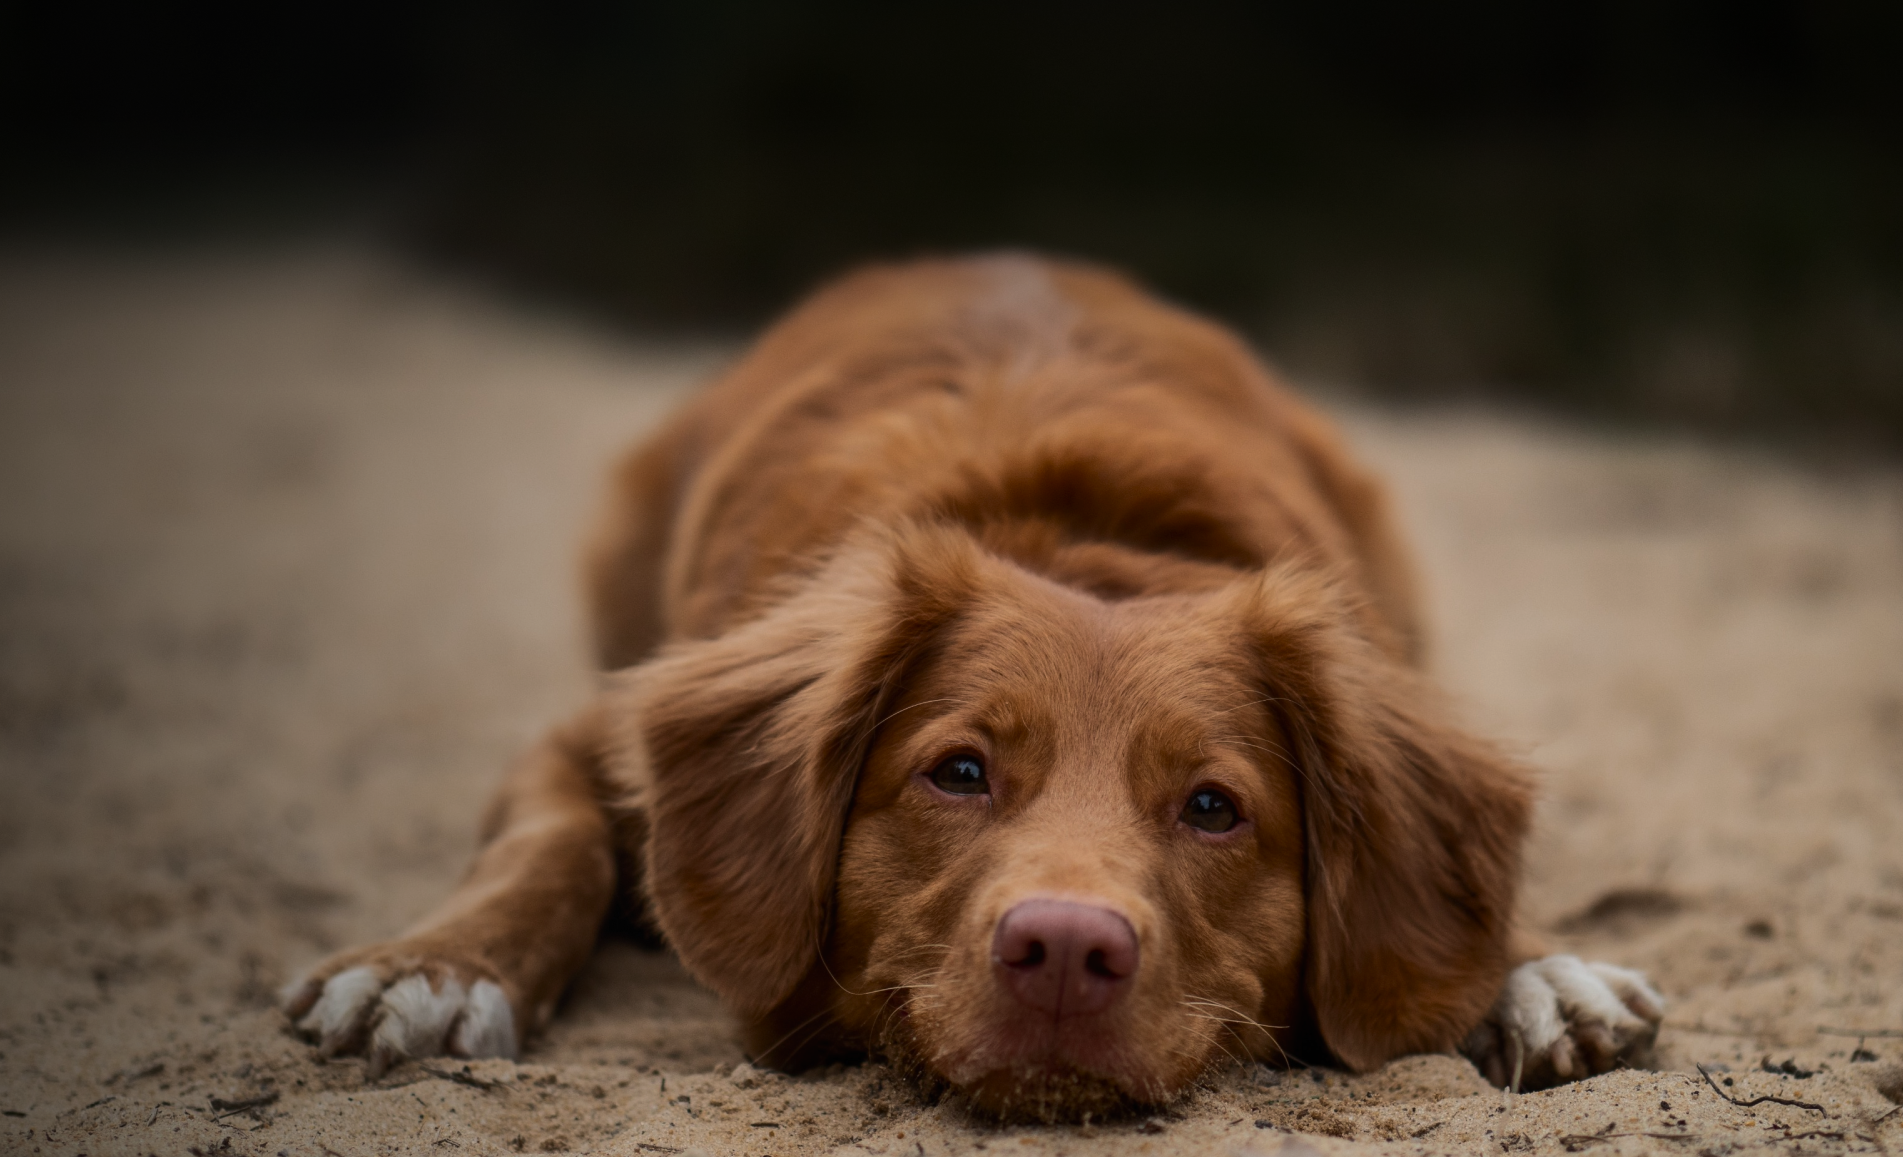
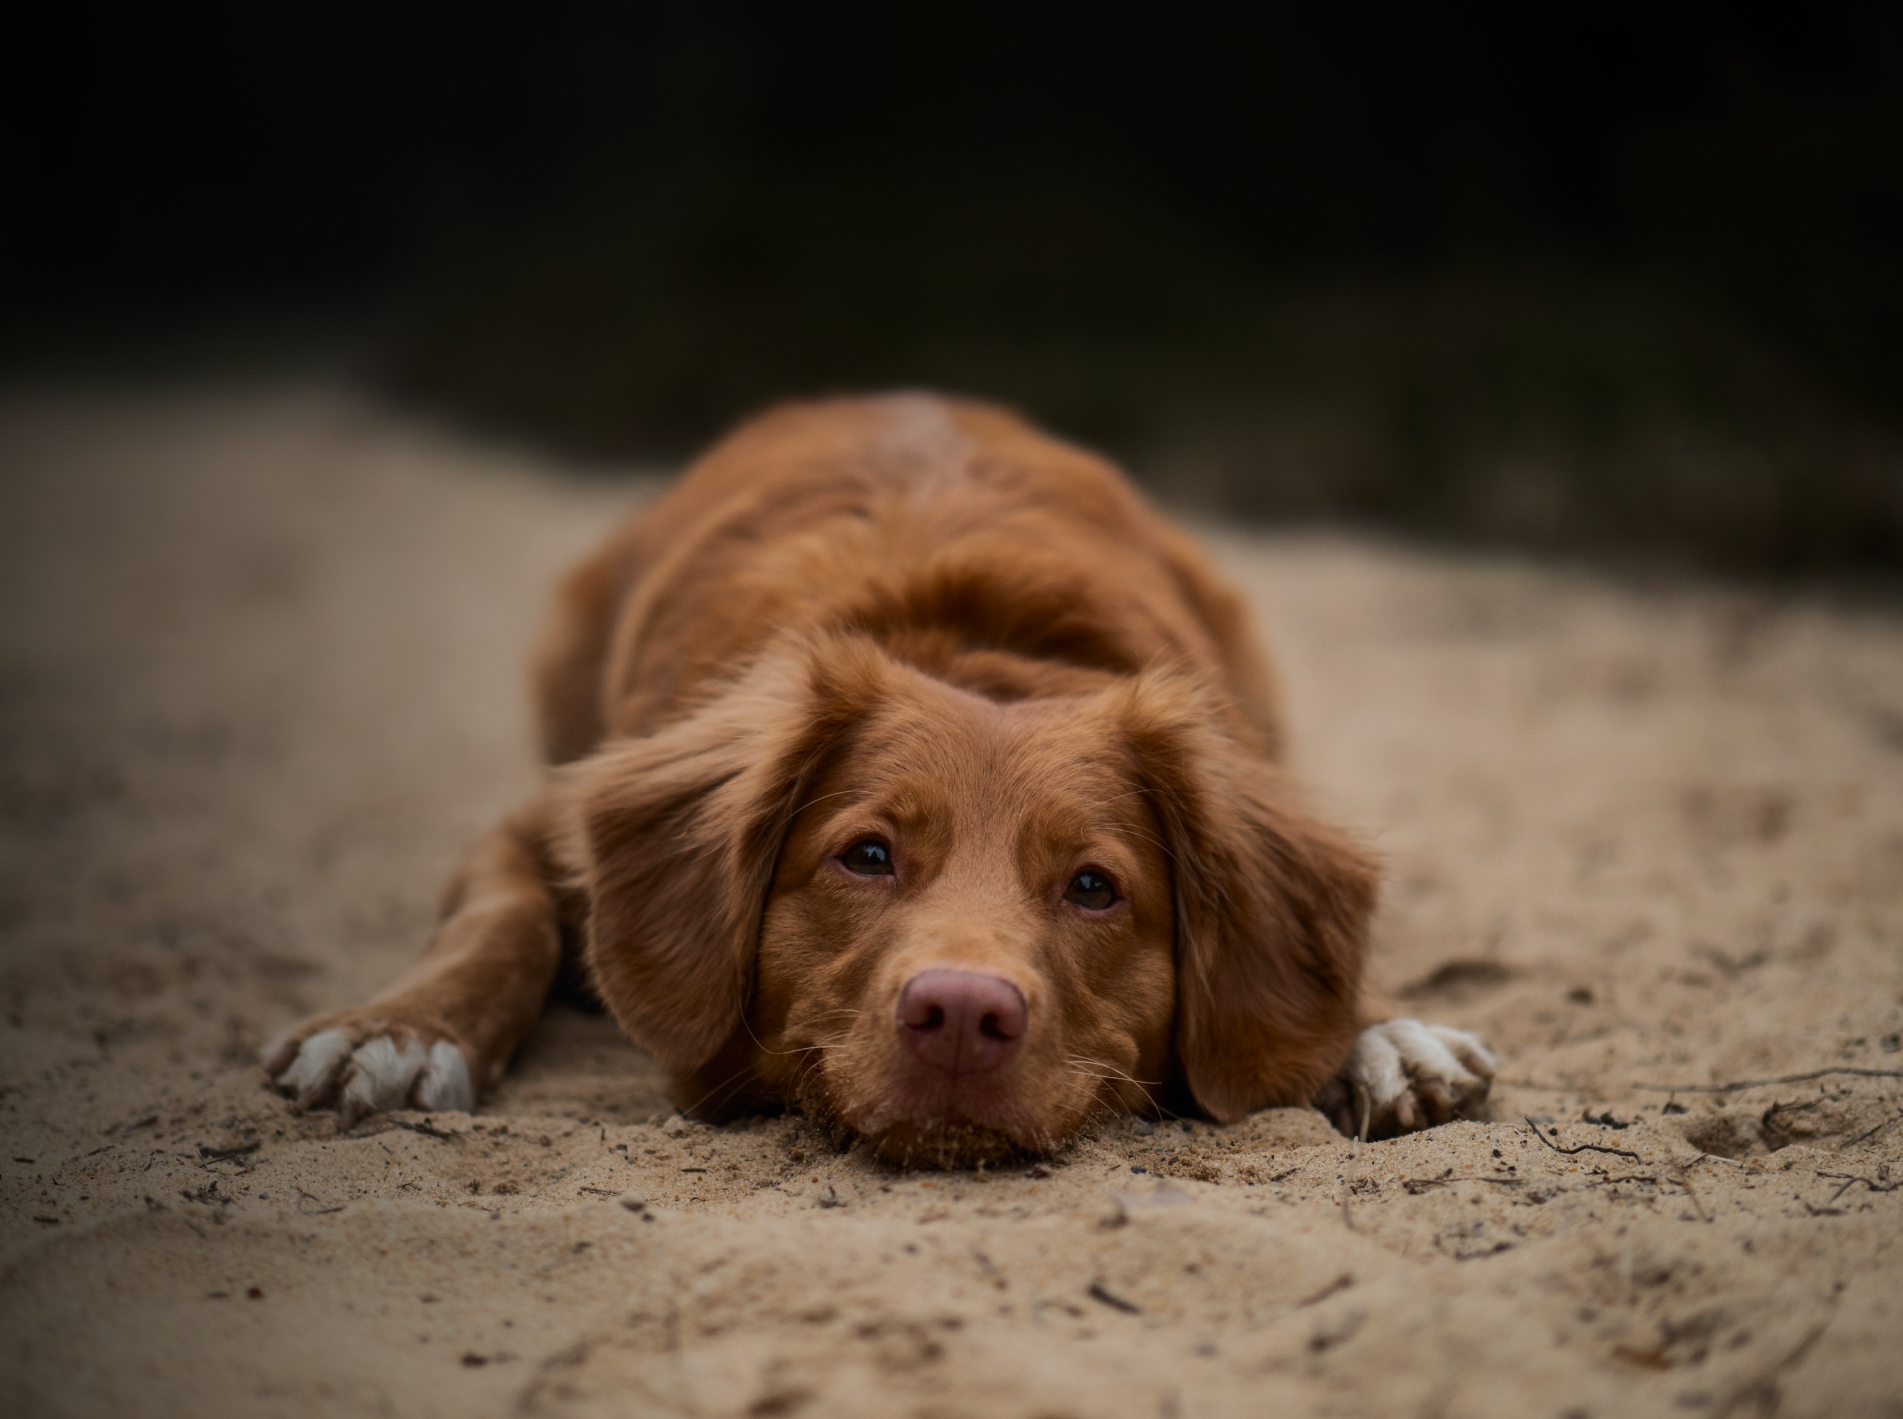
hero-homepage-redesign

diff --git a/src/Header/Header.tsx b/src/Header/Header.tsx
@@ -3,18 +3,20 @@ import HomeLink from './nav-links/HomeLink'
 import OurPetsLink from './nav-links/OurPetsLink'
 import ServicesLink from './nav-links/ServicesLink'
 import Contacts from './nav-links/Contacts'
+import AboutUs from './nav-links/AboutUs'
 
 
 export default function Header() {
     return(
-        <div>
-            <div className="mx-6 my-6 flex flex-row items-center justify-between
-            md:my-2 lg:mx-16">
-                <h3 className="text-3xl font-medium font-logo md:mx-auto text-mainOrange md:my-3 md:items-center">PetShelter</h3>
+        <header className='relative flex flex-col justify-center items-center mt-2'>
+        <div className='absolute w-full lg:z-10 mt-32'>
+            <div className="mx-10 my-6 flex flex-row items-center justify-between
+            md:my-2 lg:mx-16"> 
+                <h3 className="text-3xl z-10 font-medium font-logo md:mx-auto text-white md:my-3 lg:items-center">PetShelter</h3>
                     
                 <div className="menu">
                     <button type="button" id="menu-btn"
-                    className="z-40 block hamburger md:hidden focus:outline-none
+                    className="z-40 block hamburger lg:hidden focus:outline-none
                     ">
                         <span className="top-line"></span>
                         <span className="middle-line"></span>
@@ -22,24 +24,26 @@ export default function Header() {
                     </button>
                 </div>
 
-                <div className='hidden md:flex items-center justify-center relative'>
+                <div className='hidden lg:flex items-center justify-center float-right right-10 absolute'>
                         <ul className='right-52 absolute inline-flex items-center text-sm space-x-2 text-mainOrange font-medium '>
-                            <li><a className='hover:underline hover:underline-offset-4' href="./">EN</a></li>
-                            <span className='cursor-default'>/</span>
-                            <li><a className='text-[#DFB198] hover:underline hover:underline-offset-4' href="./">LT</a></li>
+                            <li><a className='hover:underline text-white hover:underline-offset-4' href="./">EN</a></li>
+                            <span className='cursor-default text-lighterGray'>/</span>
+                            <li><a className='text-lighterGray hover:underline hover:underline-offset-4' href="./">LT</a></li>
                         </ul>
-                    <button className='right-0 text-sm absolute basic-button text-[#447DD1] border hover:bg-[#447DD1] duration-300 hover:text-white'>Volunteer</button>
+                    <button className='right-0 text-sm absolute basic-button text-white  bg-orange hover:bg-mainOrange duration-300 hover:text-white'>Volunteer</button>
                 </div>
             </div>
 
-                <div className="bg-white/50">
+                <div>
                     <nav className='nav-links'> 
                         <HomeLink />
+                        <AboutUs />
                         <OurPetsLink />
                         <ServicesLink />
                         <Contacts />
                     </nav>
                 </div>
         </div>
+        </header>
     )
 } 

diff --git a/src/Home Page/Hero/Hero.tsx b/src/Home Page/Hero/Hero.tsx
@@ -2,24 +2,25 @@ import './Hero.css'
 
 export default function Hero () {
     return(
+        <section>
         <div className='flex flex-col items-center justify-center mx-auto'>
-            <div className="hero-img relative md:hidden"></div>
-            <div className='hidden md:block hero-desktop relative'></div>
+            <div className="hero-img absolute md:hidden"></div>
+            <div className='hidden md:flex hero-desktop relative'></div>
 
-            <div className='flex items-center justify-center'>
-                <div className="absolute bottom-40 text-center flex flex-col items-center xl:bottom-72">
-                    <h2 className='font-heading text-4xl md:text-5xl text-center w-96 bg-mainOrange rounded-full mb-2 text-white'>Our fluffy friends</h2>
-                    <h2 className='font-heading text-4xl md:text-5xl text-center w-80 md:w-90 bg-mainOrange rounded-full mb-2 text-white'> look for a loving</h2>
-                    <h2 className='font-heading text-4xl md:text-5xl text-center w-36 md:w-44 bg-mainOrange rounded-full mb-2 text-white'> home!</h2>
+            <div className='absolute z-10 flex mx-6 flex-col items-center justify-center lg:items-start lg:justify-start top-28'>
+                <div className=" text-center flex flex-col items-center justify-center lg:text-left lg:mt-12 lg:items-start lg:flex-row lg:justify-between lg:mx-20">
+                    <h1 className='text-white text-5xl lg:w-1/2 lg:text-6xl'>Our fluffy friends look for a loving home!</h1>
+                    <p className='text-white text-sm leading-6 w-80 lg:w-96 font-light font-text mt-10 lg:mt-0'>
+                    Your support makes a difference. Whether through adoption, volunteering, or donations, every contribution helps us continue our mission of providing care, love, and hope to animals in need.
+                    </p>
                 </div>   
 
-                <div className="button bottom-7 text-center flex mx-auto mt-6
-                md:absolute md:bottom-16 xl:bottom-40">
-                    <button className='text-xl items-center text-mainOrange border-2 font-semibold border-mainOrange uppercase w-80 rounded-full py-4 hover:bg-mainOrange
-                     ease-in-out duration-300 md:border-white md:text-white hover:text-mainOrange md:w-60 md:hover:bg-white md:text-sm md:py-3 md:px-2'>Adopt a Pet</button>
+                <div className="button text-center mx-auto lg:mx-20 mt-44 lg:mt-10">
+                    <button className='text-xl items-center text-white border font-medium border-white uppercase w-80 rounded-lg py-4 hover:bg-mainOrange
+                     ease-in-out duration-300 md:w-60 md:hover:bg-white md:hover:text-black md:text-sm md:py-3 md:px-2'>Adopt a Pet</button>
                 </div>
             </div>
-
         </div>
+        </section>
     )
 }

diff --git a/src/Header/nav-links/OurPetsLink.tsx b/src/Header/nav-links/OurPetsLink.tsx
@@ -6,21 +6,18 @@ export default function OurPetsLink() {
             <Link to='/our-pets' className='flex justify-center items-center gap-4 group-hover:text-mainOrange group-hover:stroke-mainOrange duration-200'>
                 Our Pets 
                 <svg id='arrow' width="14" height="8" viewBox="0 0 14 8" fill="none" xmlns="http://www.w3.org/2000/svg">
-                    <path className='group-hover:stroke-mainOrange duration-200' d="M13 1L7 7L1 1" stroke="#161616"/>
+                    <path className='group-hover:stroke-mainOrange stroke-white duration-200' d="M13 1L7 7L1 1" stroke="#161616"/>
                 </svg>
             </Link>
 
-            <div className='group-hover:flex absolute z-10 items-center justify-center mx-auto hidden bg-white rounded-b-lg ease-in-out h-36 w-52'>
+            <div className='group-hover:flex absolute z-10 items-center justify-center hidden bg-white rounded-b-lg ease-in-out h-32 w-36'>
                 <div>
-                    <ul className=' mx-4 mt-4 space-y-4'>
+                    <ul className='mx-4 space-y-4 text-gray'>
                         <li>
                             <Link to='/our-pets/cats' className='hover:text-mainOrange duration-200'>Our Cats</Link>
                         </li>
                         <li>
                             <Link to='/our-pets/dogs' className='hover:text-mainOrange duration-200' >Our Dogs</Link>
-                        </li>
-                        <li>
-                            <Link to='/our-pets/adoption-application' className='hover:text-mainOrange duration-200'>Adoption Application</Link>
                         </li>
                     </ul>
                 </div>

diff --git a/src/Header/nav-links/ServicesLink.tsx b/src/Header/nav-links/ServicesLink.tsx
@@ -6,13 +6,13 @@ export default function ServicesLink() {
             <a className='flex justify-center items-center gap-4 group-hover:text-mainOrange group-hover:stroke-mainOrange duration-200' href="./">
                 Services 
                 <svg id='arrow' width="14" height="8" viewBox="0 0 14 8" fill="none" xmlns="http://www.w3.org/2000/svg">
-                    <path className='group-hover:stroke-mainOrange duration-200' d="M13 1L7 7L1 1" stroke="#161616"/>
+                    <path className='group-hover:stroke-mainOrange stroke-white duration-200' d="M13 1L7 7L1 1" stroke="#161616"/>
                 </svg>
             </a>
 
-            <div className='group-hover:flex absolute z-10 items-center justify-center mx-auto hidden bg-white rounded-b-lg ease-in-out h-48 w-52'>
+            <div className='group-hover:flex absolute z-10 items-center justify-center mx-auto hidden bg-white rounded-b-lg ease-in-out h-48 w-44'>
                 <div>
-                    <ul className=' mx-4 mt-4 space-y-4'>
+                    <ul className=' mx-4 mt-4 space-y-4 text-gray'>
                         <li><Link to='/services/adoption' className='hover:text-mainOrange duration-200'>Adoption</Link></li>
                         <li><Link to='/services/volunteer-today' className='hover:text-mainOrange duration-200'>Volunteer Today</Link></li>
                         <li><Link to='/services/donate' className='hover:text-mainOrange duration-200'>Donate & Help</Link></li>

diff --git a/src/Home Page/Hero/Hero.scss b/src/Home Page/Hero/Hero.scss
@@ -1,26 +1,35 @@
 .hero-img{
-    background-image: url(../images/hero-1.png);
+    position: relative;
+    top: 0;
+    left: 0;
+    overflow: hidden;
+    background-image: url(../images/images-redesign/hero.png);
     background-size: cover;
-    width: 95%;
+    width: 96%;
     margin-left: auto;
     margin-right: auto;
-    height: 76vh;
+    height: 95vh;
+    filter: brightness(0.8);
+    z-index: 1;
     background-repeat: no-repeat;
-    background-position: 53%;
+    background-position: 50%;
     border-radius: 15px;
     -webkit-border-radius: 15px;
     -moz-border-radius: 15px;
     -ms-border-radius: 15px;
     -o-border-radius: 15px;
+    -webkit-filter: brightness(0.8);
 }
 
 .hero-desktop{
-    background-image: url(../images/hero-desktop.png);
+    background-image: url(../images/images-redesign/hero.png);
     background-size: cover;
-    width: 99%;
+    width: 98%;
+    filter: brightness(0.7);
     margin-left: auto;
     margin-right: auto;
-    height: 80vh;
+    height: 97vh;
+    margin-top: 0.5em;
     background-repeat: no-repeat;
     background-position: 53%;
     border-radius: 15px;
@@ -28,10 +37,11 @@
     -moz-border-radius: 15px;
     -ms-border-radius: 15px;
     -o-border-radius: 15px;
+    -webkit-filter: brightness(0.7);
 }
 
 @media screen and (min-width: 900px) {
     .hero-desktop{
-        max-width: 92vw;
+        max-width: 98vw;
     }
 }

diff --git a/src/Home Page/Hero/Hero.css b/src/Home Page/Hero/Hero.css
@@ -1,26 +1,35 @@
 .hero-img {
-  background-image: url(../images/hero-1.png);
+  position: relative;
+  top: 0;
+  left: 0;
+  overflow: hidden;
+  background-image: url(../images/images-redesign/hero.png);
   background-size: cover;
-  width: 95%;
+  width: 96%;
   margin-left: auto;
   margin-right: auto;
-  height: 76vh;
+  height: 95vh;
+  filter: brightness(0.8);
+  z-index: 1;
   background-repeat: no-repeat;
-  background-position: 53%;
+  background-position: 50%;
   border-radius: 15px;
   -webkit-border-radius: 15px;
   -moz-border-radius: 15px;
   -ms-border-radius: 15px;
   -o-border-radius: 15px;
+  -webkit-filter: brightness(0.8);
 }
 
 .hero-desktop {
-  background-image: url(../images/hero-desktop.png);
+  background-image: url(../images/images-redesign/hero.png);
   background-size: cover;
-  width: 99%;
+  width: 98%;
+  filter: brightness(0.7);
   margin-left: auto;
   margin-right: auto;
-  height: 80vh;
+  height: 97vh;
+  margin-top: 0.5em;
   background-repeat: no-repeat;
   background-position: 53%;
   border-radius: 15px;
@@ -28,10 +37,11 @@
   -moz-border-radius: 15px;
   -ms-border-radius: 15px;
   -o-border-radius: 15px;
+  -webkit-filter: brightness(0.7);
 }
 
 @media screen and (min-width: 900px) {
   .hero-desktop {
-    max-width: 92vw;
+    max-width: 98vw;
   }
 }/*# sourceMappingURL=Hero.css.map */

diff --git a/src/index.css b/src/index.css
@@ -15,7 +15,7 @@
     }
 
     .basic-button{
-        @apply  px-10 py-2 rounded-full font-medium uppercase tracking-wide; 
+        @apply  px-10 py-2 rounded-lg font-medium uppercase tracking-wide; 
     }
 
     .input {
@@ -23,9 +23,9 @@
     }
 
     .nav-links {
-        @apply hidden z-10 font-heading pt-6 text-2xl bg-white/50 pb-10 space-y-5 
+        @apply hidden z-10 font-heading pt-6 text-2xl bg-none lg:text-white pb-10 space-y-5 
         flex-col items-center justify-between mt-6 lg:flex lg:mt-2 lg:flex-row lg:text-base
-        lg:space-y-0 lg:pt-0 lg:pb-0 lg:mb-4 lg:justify-center lg:space-x-44 lg:items-center;
+        lg:space-y-0 lg:pt-0 lg:pb-0 lg:mb-4 lg:justify-center lg:space-x-24 lg:items-center;
     }
 
     .points{

diff --git a/src/Header/Header.scss b/src/Header/Header.scss
@@ -1,8 +1,8 @@
 /*Hamburger Menu*/
 .hamburger{
     cursor: pointer;
-    width: 24px;
-    height: 24px;
+    width: 40px;
+    height: 40px;
     transition: all 0.25s;
     -webkit-transition: all 0.25s;
     -moz-transition: all 0.25s;
@@ -15,11 +15,11 @@
 .middle-line,
 .bottom-line{
     position: absolute;
-    width: 24px;
+    width: 45px;
     height: 2px;
     top: 0;
     left: 0;
-    background: #D18332;
+    background: white;
     transform: rotate(0);
     -webkit-transform: rotate(0);
     -moz-transform: rotate(0);
@@ -30,10 +30,12 @@
 
 .middle-line{
     transform: translateY(7px);
+    margin-top: 7px;
 }
 
 .bottom-line{
     transform: translateY(14px); 
+    margin-top: 15px;
 } 
 
 .open{

diff --git a/src/Header/Header.css b/src/Header/Header.css
@@ -1,8 +1,8 @@
 /*Hamburger Menu*/
 .hamburger {
   cursor: pointer;
-  width: 24px;
-  height: 24px;
+  width: 40px;
+  height: 40px;
   transition: all 0.25s;
   -webkit-transition: all 0.25s;
   -moz-transition: all 0.25s;
@@ -15,11 +15,11 @@
 .middle-line,
 .bottom-line {
   position: absolute;
-  width: 24px;
+  width: 45px;
   height: 2px;
   top: 0;
   left: 0;
-  background: #D18332;
+  background: white;
   transform: rotate(0);
   -webkit-transform: rotate(0);
   -moz-transform: rotate(0);
@@ -30,10 +30,12 @@
 
 .middle-line {
   transform: translateY(7px);
+  margin-top: 7px;
 }
 
 .bottom-line {
   transform: translateY(14px);
+  margin-top: 15px;
 }
 
 .open {

diff --git a/tailwind.config.js b/tailwind.config.js
@@ -18,7 +18,8 @@ module.exports = {
       'lightGray' : '#F6F6F6',
       'darkGray' : '#2D2D2D',
       'lighterGray' : '#ADADAD',
-      'mainOrange' : '#DA7339',
+      'mainOrange' : '#D86423',
+      'orange': '#E57536',
       'blue' : '#3C67A7'
     },
     fontFamily: {

diff --git a/src/Header/nav-links/AboutUs.tsx b/src/Header/nav-links/AboutUs.tsx
@@ -1,0 +1,7 @@
+import { Link } from 'react-router-dom'
+
+export default function AboutUs() {
+    return(
+        <Link to='./about-us' className='hover:text-mainOrange duration-200'>About us</Link>
+    )
+}
